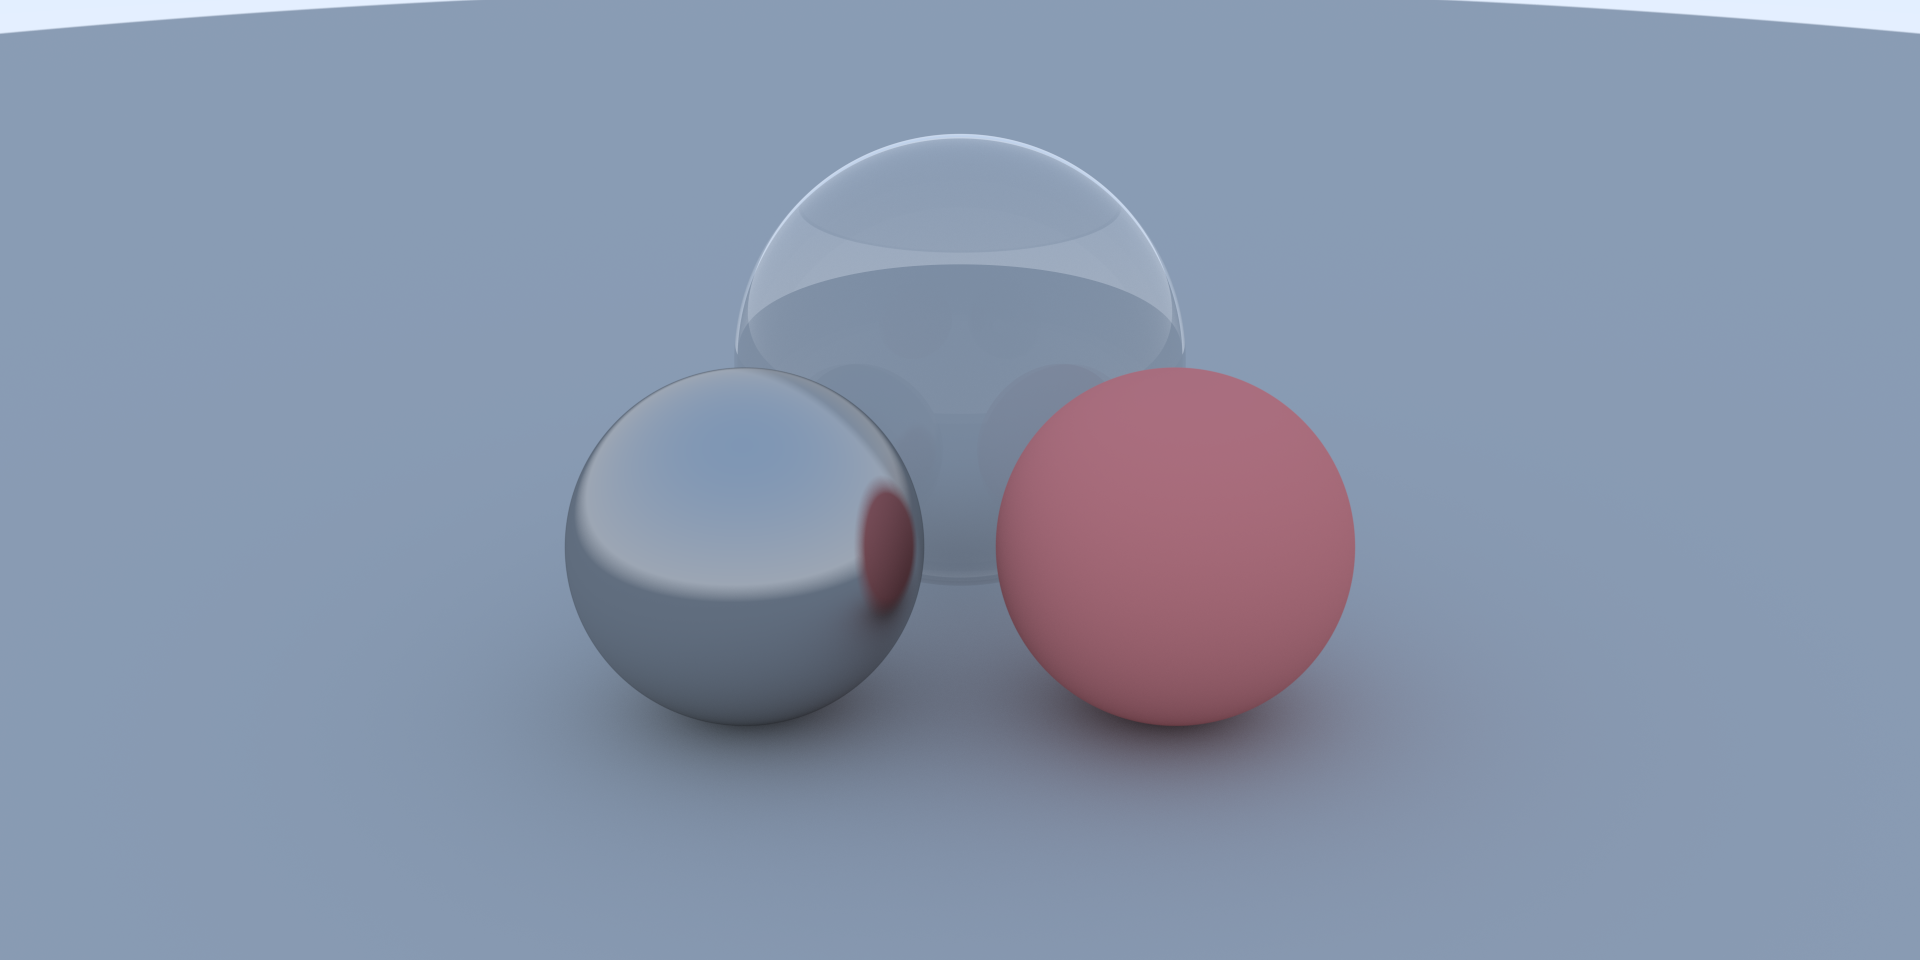
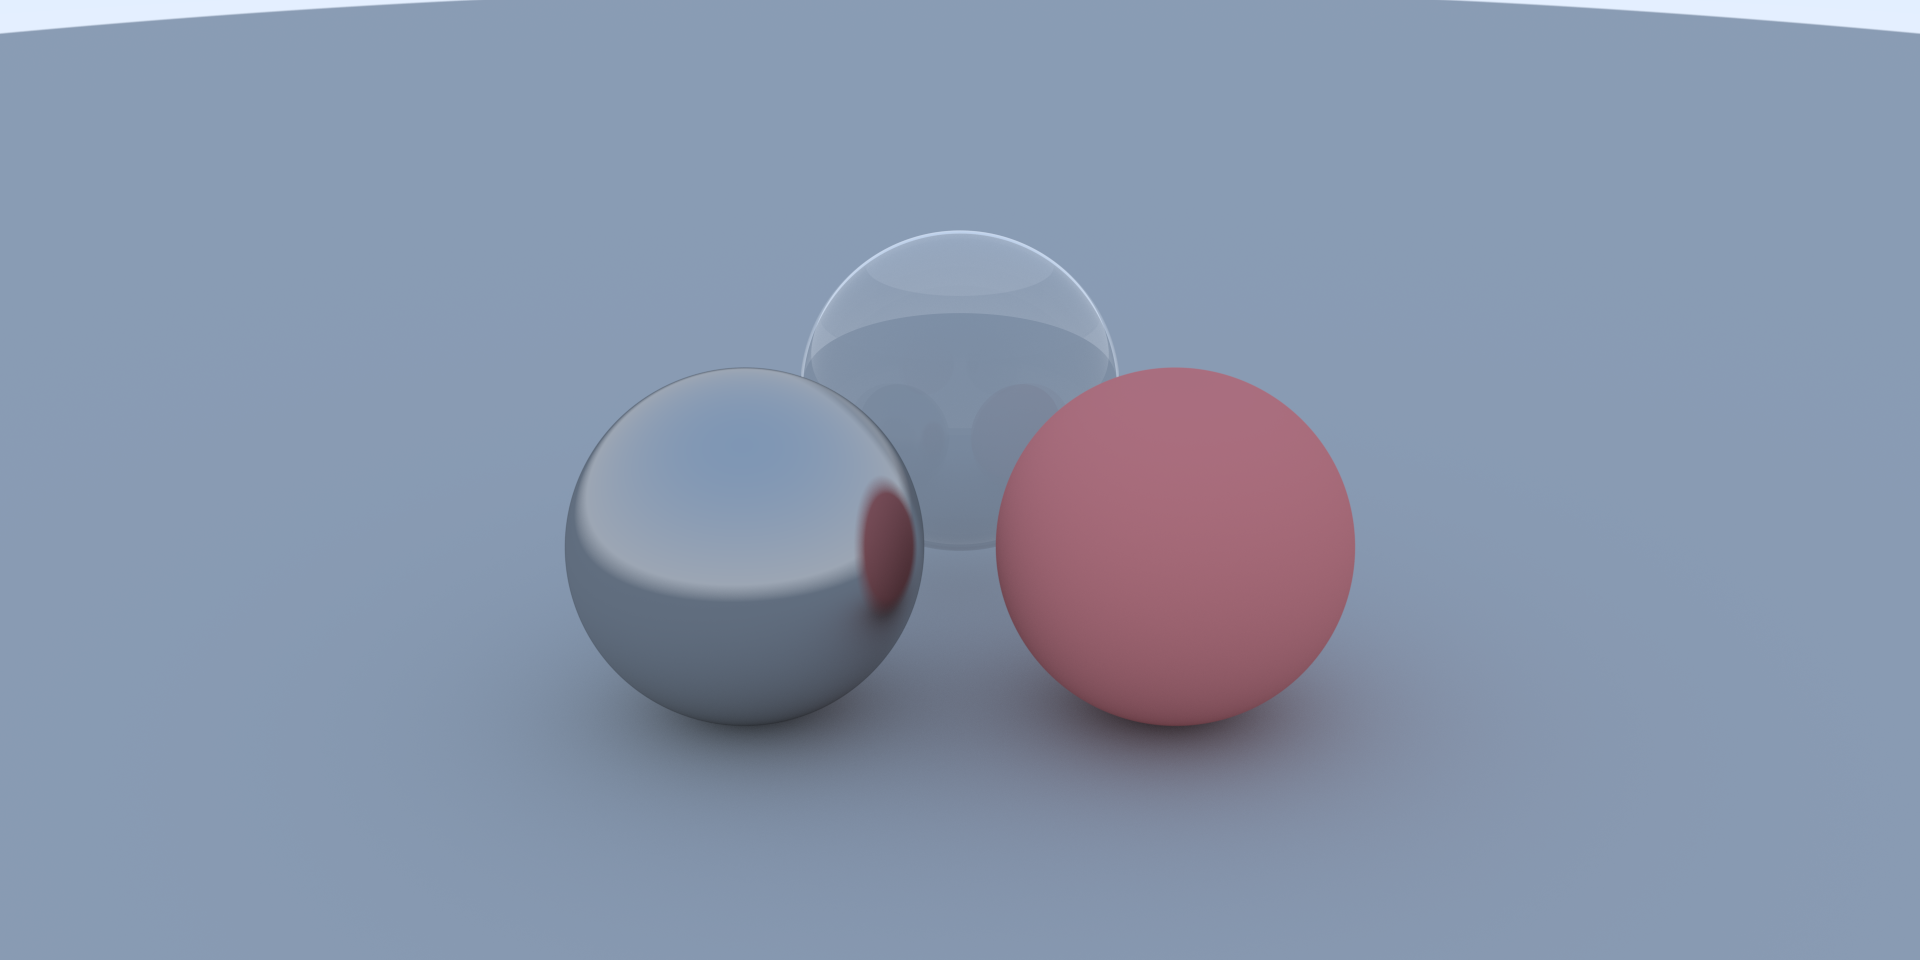
Change size of refractive sphere

diff --git a/src/main.rs b/src/main.rs
@@ -51,14 +51,14 @@ fn main() {
     ));
 
     world.add(Sphere::new(
-        Vector3::new(0.0, 0.2, -2.0),
-        0.7,
+        Vector3::new(0.0, 0.1, -2.0),
+        0.5,
         Refractive::new(Vector3::new(0.9, 0.9, 0.9), 1.5, 0.0))
     );
 
     world.add(Sphere::new(
-        Vector3::new(0.0, 0.2, -2.0),
-        -0.69,
+        Vector3::new(0.0, 0.1, -2.0),
+        -0.49,
         Refractive::new(Vector3::new(0.9, 0.9, 0.9), 1.5, 0.0))
     );
 
